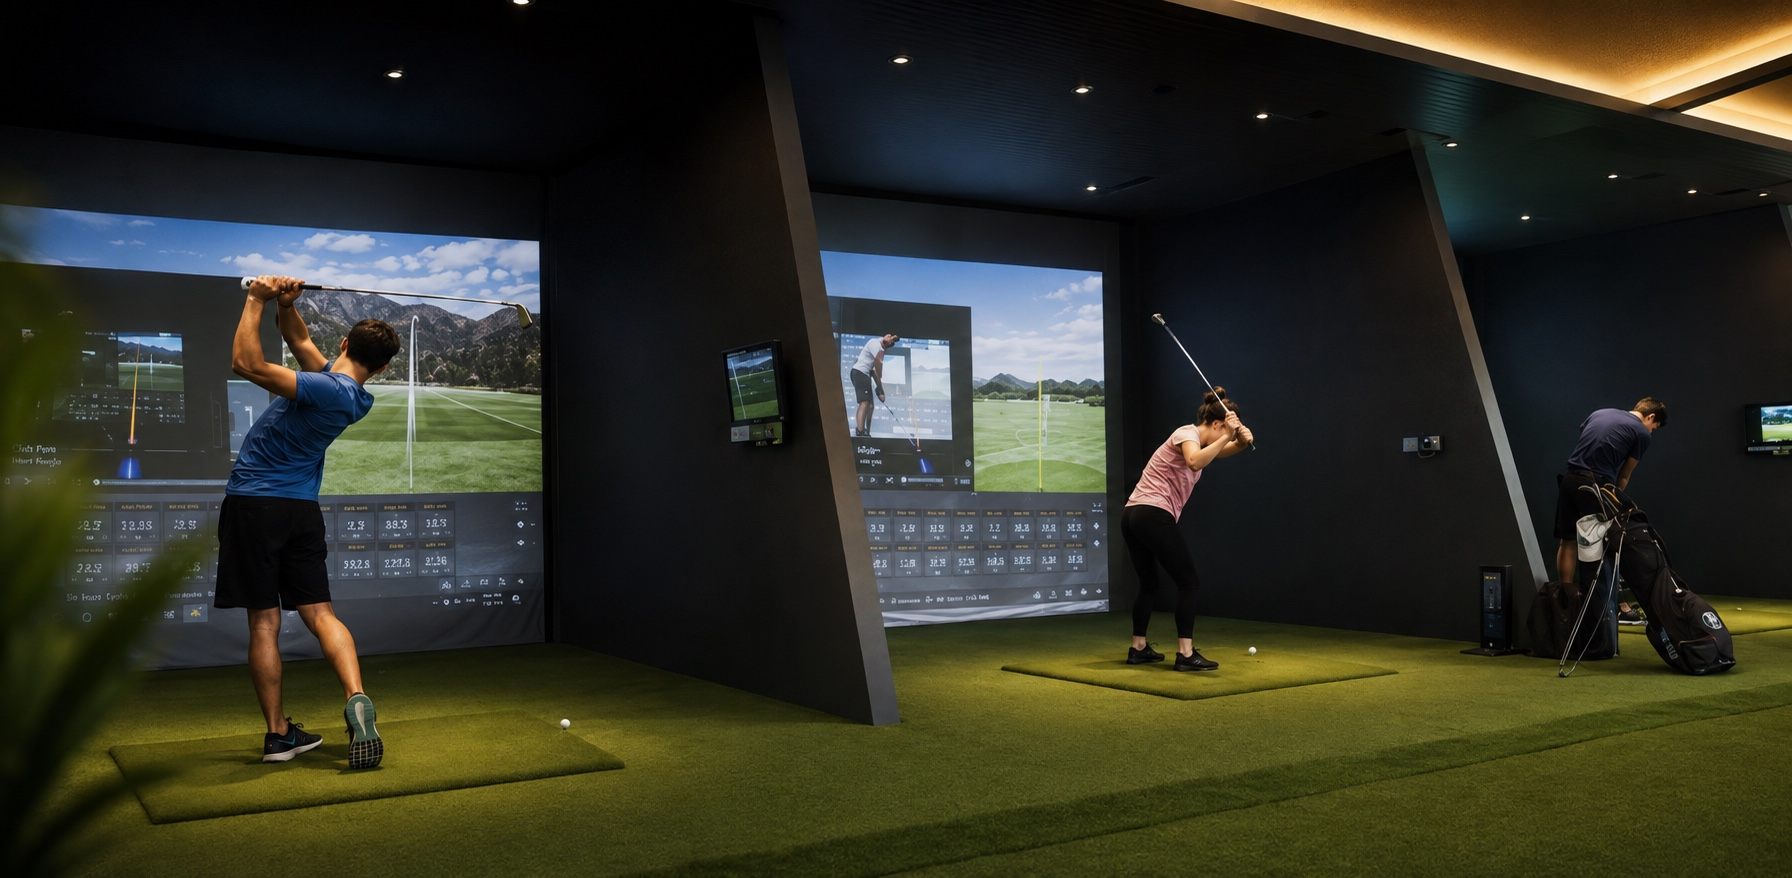
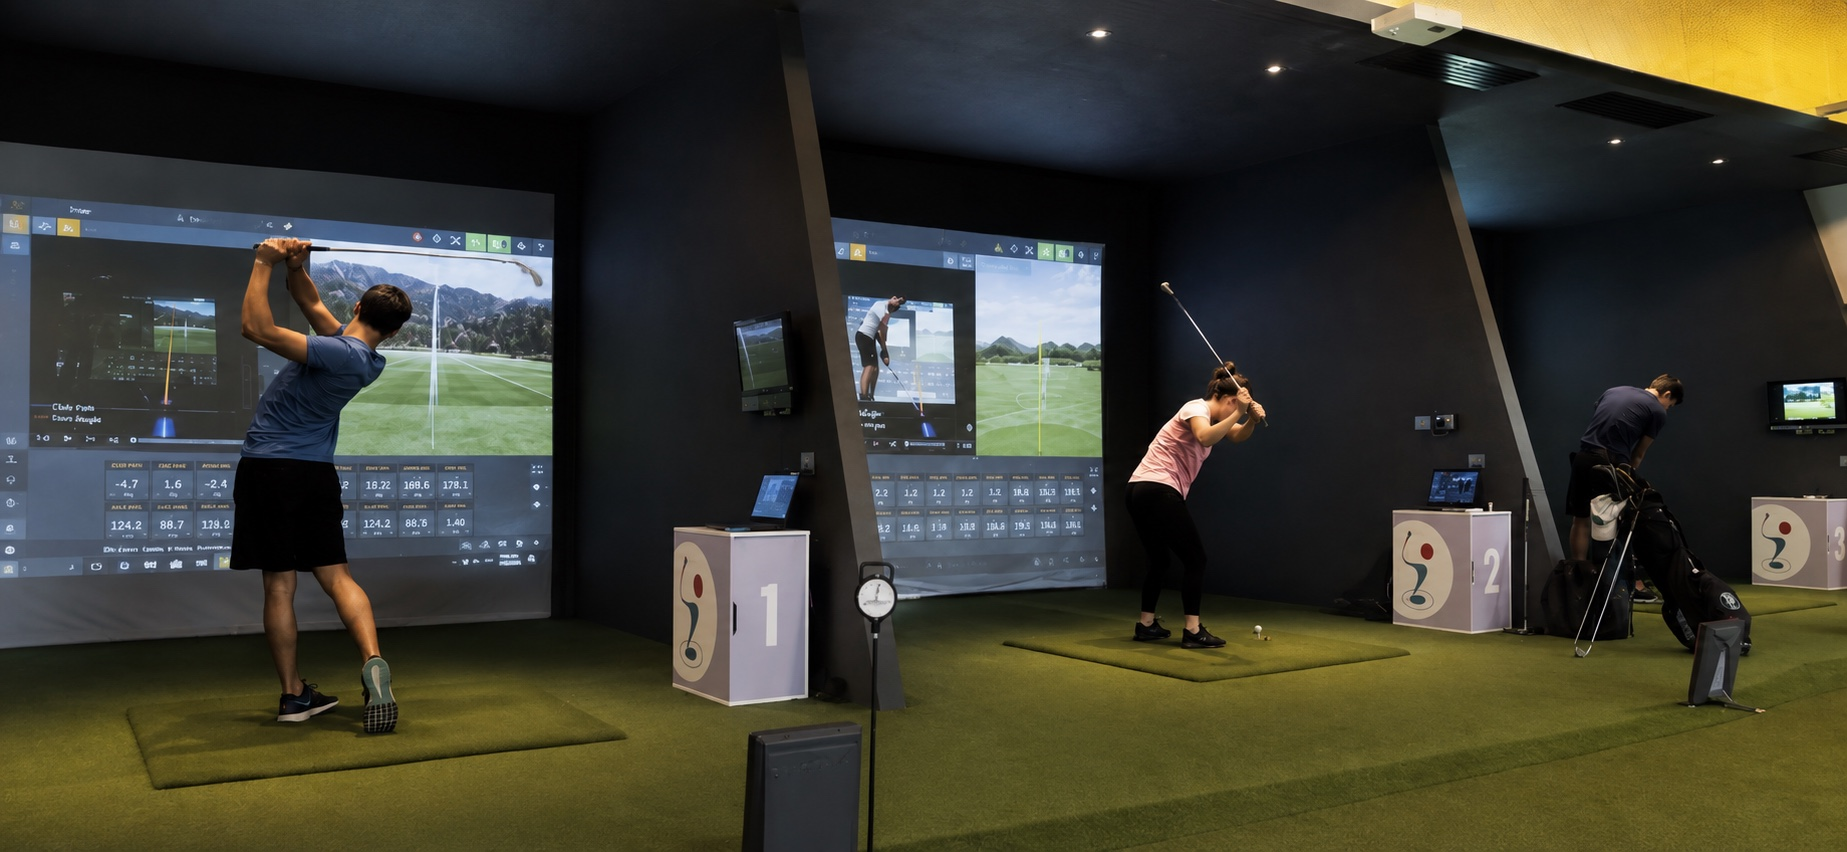
Golf indoor: versione con il marchio del club sulle postazioni
Sostituisce quella di poche ore fa. Questa ha il logo della Montecchia
sui cubi numerati delle tre postazioni e i dati sugli schermi leggibili,
quindi si riconosce come il nostro golf indoor invece che come una sala
qualsiasi: era il problema che avevo segnalato.

Convertita da PNG a JPEG: 1.9 MB -> 369 KB.

Contrasto sulla porzione visibile: titolo 8.3-13.68, sommario
9.52-12.56.

Temporanea, in attesa delle foto vere della sala.

diff --git a/src/app/(aree)/golf-indoor/page.tsx b/src/app/(aree)/golf-indoor/page.tsx
@@ -71,7 +71,7 @@ export default function GolfIndoorPage() {
         intro="Simulatori con tecnologia TrackMan e maestri PGA. Si gioca e si migliora tutto l'anno, con qualsiasi meteo, e ogni colpo lascia un dato."
         image={{
           src: "/images/GolfIndoor_hero.jpg",
-          alt: "Giocatori in sessione alle postazioni del Golf Indoor",
+          alt: "Giocatori in sessione alle postazioni numerate del Golf Indoor",
         }}
       >
         <a
